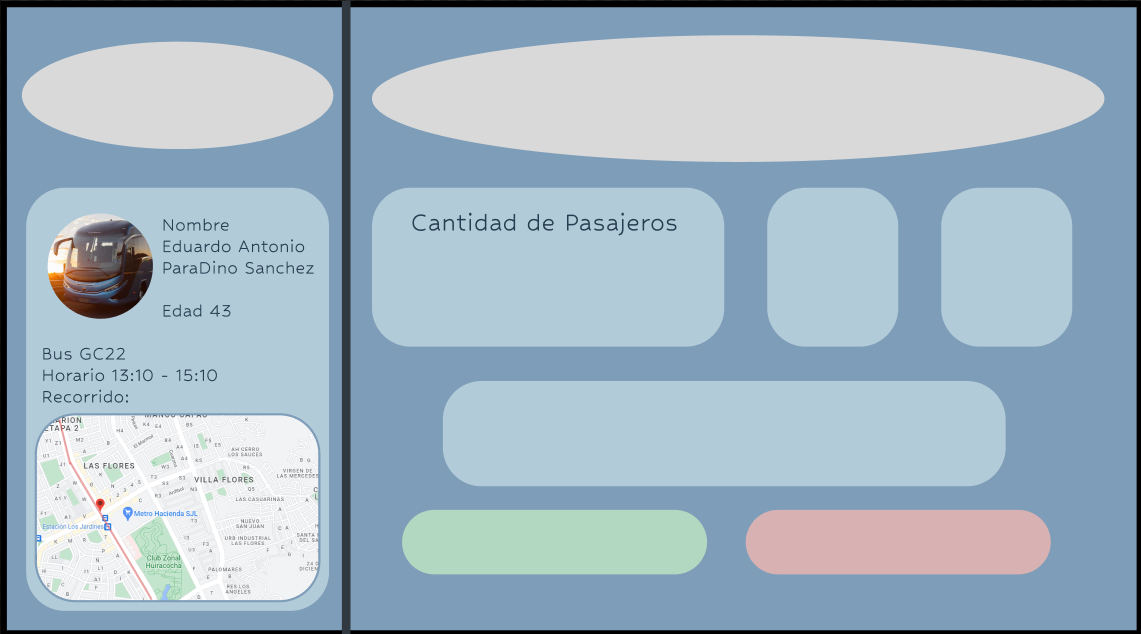
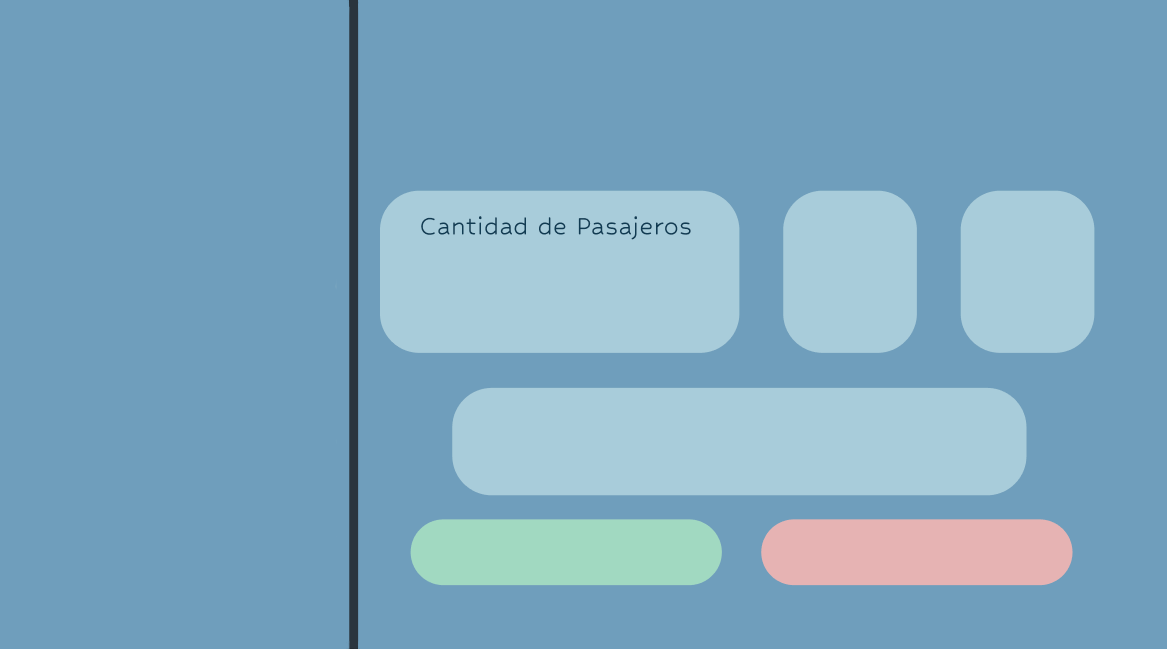
v2

diff --git a/src/paquete/programa.java b/src/paquete/programa.java
@@ -4,6 +4,8 @@
  */
 package paquete;
 
+
+ import AppPackage.AnimationClass;
 /**
  *
  * @author Jonat
@@ -31,6 +33,13 @@ public class programa extends javax.swing.JFrame {
     // <editor-fold defaultstate="collapsed" desc="Generated Code">//GEN-BEGIN:initComponents
     private void initComponents() {
 
+        paneltres = new javax.swing.JLabel();
+        paneldos = new javax.swing.JLabel();
+        botondebotones = new javax.swing.JLabel();
+        botonadmin2 = new javax.swing.JLabel();
+        botonadmin1 = new javax.swing.JLabel();
+        botonadmin = new javax.swing.JLabel();
+        botonpanel1 = new javax.swing.JLabel();
         click2 = new javax.swing.JButton();
         click1 = new javax.swing.JButton();
         resultadodelpago = new javax.swing.JLabel();
@@ -42,6 +51,52 @@ public class programa extends javax.swing.JFrame {
 
         setDefaultCloseOperation(javax.swing.WindowConstants.EXIT_ON_CLOSE);
         getContentPane().setLayout(new org.netbeans.lib.awtextra.AbsoluteLayout());
+
+        paneltres.setIcon(new javax.swing.ImageIcon(getClass().getResource("/paquete/Sin título-6.png"))); // NOI18N
+        paneltres.setText("jLabel2");
+        getContentPane().add(paneltres, new org.netbeans.lib.awtextra.AbsoluteConstraints(-340, 150, 350, 480));
+
+        paneldos.setIcon(new javax.swing.ImageIcon(getClass().getResource("/paquete/Sin título-6.png"))); // NOI18N
+        paneldos.setText("jLabel2");
+        getContentPane().add(paneldos, new org.netbeans.lib.awtextra.AbsoluteConstraints(-340, 150, 350, 480));
+
+        botondebotones.setHorizontalAlignment(javax.swing.SwingConstants.CENTER);
+        botondebotones.setIcon(new javax.swing.ImageIcon(getClass().getResource("/paquete/Sin título-7.png"))); // NOI18N
+        botondebotones.addMouseListener(new java.awt.event.MouseAdapter() {
+            public void mouseClicked(java.awt.event.MouseEvent evt) {
+                botondebotonesMouseClicked(evt);
+            }
+        });
+        getContentPane().add(botondebotones, new org.netbeans.lib.awtextra.AbsoluteConstraints(100, 0, 140, 20));
+
+        botonadmin2.setIcon(new javax.swing.ImageIcon(getClass().getResource("/paquete/imagen_2022-07-09_131154609-removebg-preview.png"))); // NOI18N
+        botonadmin2.addMouseListener(new java.awt.event.MouseAdapter() {
+            public void mouseClicked(java.awt.event.MouseEvent evt) {
+                botonadmin2MouseClicked(evt);
+            }
+        });
+        getContentPane().add(botonadmin2, new org.netbeans.lib.awtextra.AbsoluteConstraints(230, 45, 80, 70));
+
+        botonadmin1.setIcon(new javax.swing.ImageIcon(getClass().getResource("/paquete/imagen_2022-07-09_131154609-removebg-preview.png"))); // NOI18N
+        botonadmin1.addMouseListener(new java.awt.event.MouseAdapter() {
+            public void mouseClicked(java.awt.event.MouseEvent evt) {
+                botonadmin1MouseClicked(evt);
+            }
+        });
+        getContentPane().add(botonadmin1, new org.netbeans.lib.awtextra.AbsoluteConstraints(125, 45, 80, 70));
+
+        botonadmin.setIcon(new javax.swing.ImageIcon(getClass().getResource("/paquete/imagen_2022-07-09_131154609-removebg-preview.png"))); // NOI18N
+        botonadmin.addMouseListener(new java.awt.event.MouseAdapter() {
+            public void mouseClicked(java.awt.event.MouseEvent evt) {
+                botonadminMouseClicked(evt);
+            }
+        });
+        getContentPane().add(botonadmin, new org.netbeans.lib.awtextra.AbsoluteConstraints(20, 45, 80, 70));
+
+        botonpanel1.setIcon(new javax.swing.ImageIcon(getClass().getResource("/paquete/Sin título-5.png"))); // NOI18N
+        botonpanel1.setLabelFor(resultadodelpago1);
+        botonpanel1.setText("jLabel2");
+        getContentPane().add(botonpanel1, new org.netbeans.lib.awtextra.AbsoluteConstraints(10, 150, 340, 480));
 
         click2.setBackground(new java.awt.Color(178, 203, 216));
         click2.setFont(new java.awt.Font("sansserif", 3, 48)); // NOI18N
@@ -57,7 +112,7 @@ public class programa extends javax.swing.JFrame {
                 click2ActionPerformed(evt);
             }
         });
-        getContentPane().add(click2, new org.netbeans.lib.awtextra.AbsoluteConstraints(940, 200, 130, 140));
+        getContentPane().add(click2, new org.netbeans.lib.awtextra.AbsoluteConstraints(960, 200, 140, 140));
 
         click1.setBackground(new java.awt.Color(178, 203, 216));
         click1.setFont(new java.awt.Font("sansserif", 3, 48)); // NOI18N
@@ -73,7 +128,7 @@ public class programa extends javax.swing.JFrame {
                 click1ActionPerformed(evt);
             }
         });
-        getContentPane().add(click1, new org.netbeans.lib.awtextra.AbsoluteConstraints(770, 200, 130, 140));
+        getContentPane().add(click1, new org.netbeans.lib.awtextra.AbsoluteConstraints(780, 200, 140, 140));
 
         resultadodelpago.setFont(new java.awt.Font("sansserif", 0, 36)); // NOI18N
         resultadodelpago.setForeground(new java.awt.Color(255, 255, 255));
@@ -88,7 +143,7 @@ public class programa extends javax.swing.JFrame {
         cantidaddepasajeros1.setFont(new java.awt.Font("sansserif", 0, 36)); // NOI18N
         cantidaddepasajeros1.setForeground(new java.awt.Color(255, 255, 255));
         cantidaddepasajeros1.setText("0");
-        getContentPane().add(cantidaddepasajeros1, new org.netbeans.lib.awtextra.AbsoluteConstraints(520, 250, 140, 70));
+        getContentPane().add(cantidaddepasajeros1, new org.netbeans.lib.awtextra.AbsoluteConstraints(500, 250, 140, 70));
 
         cancelarpaga.setBackground(new java.awt.Color(216, 178, 178));
         cancelarpaga.setFont(new java.awt.Font("sansserif", 1, 18)); // NOI18N
@@ -119,7 +174,7 @@ public class programa extends javax.swing.JFrame {
         getContentPane().add(confirmarPaga, new org.netbeans.lib.awtextra.AbsoluteConstraints(420, 514, 260, 60));
 
         jLabel1.setIcon(new javax.swing.ImageIcon(getClass().getResource("/paquete/unknown.png"))); // NOI18N
-        getContentPane().add(jLabel1, new org.netbeans.lib.awtextra.AbsoluteConstraints(0, 0, 1140, 640));
+        getContentPane().add(jLabel1, new org.netbeans.lib.awtextra.AbsoluteConstraints(0, 0, 1150, 640));
 
         pack();
     }// </editor-fold>//GEN-END:initComponents
@@ -166,6 +221,75 @@ public class programa extends javax.swing.JFrame {
         refreshInterface();
     }//GEN-LAST:event_cancelarpagaActionPerformed
 
+    private void botonadminMouseClicked(java.awt.event.MouseEvent evt) {//GEN-FIRST:event_botonadminMouseClicked
+
+        //panel mostrado
+        AnimationClass  botonadminuno = new AnimationClass();
+        botonadminuno.jLabelXRight(-340, 10, 10, 5, botonpanel1);
+        
+        //paneles ocultos
+        AnimationClass  botonadminun = new AnimationClass();
+        botonadminun.jLabelXLeft(10, -340, 10, 5, paneldos);
+        
+        AnimationClass  botonadminunn = new AnimationClass();
+        botonadminunn.jLabelXLeft(10, -340, 10, 5, paneltres); 
+    }//GEN-LAST:event_botonadminMouseClicked
+
+    private void botondebotonesMouseClicked(java.awt.event.MouseEvent evt) {//GEN-FIRST:event_botondebotonesMouseClicked
+        
+        AnimationClass botondebotoness = new AnimationClass();
+        botondebotoness.jLabelYDown(-80, 45, 10, 5, botonadmin);
+        
+        AnimationClass botondebotoness1 = new AnimationClass();
+        botondebotoness1.jLabelYDown(-80, 45, 10, 5, botonadmin1);
+        
+        AnimationClass botondebotoness2 = new AnimationClass();
+        botondebotoness2.jLabelYDown(-80, 45, 10, 5, botonadmin2);
+        
+        // ^^ bajar  | vv subir
+        
+        AnimationClass botondebotonesss = new AnimationClass();
+        botondebotonesss.jLabelYUp(45, -80, 10, 5, botonadmin);
+        
+        AnimationClass botondebotonesss1 = new AnimationClass();
+        botondebotonesss.jLabelYUp(45, -80, 10, 5, botonadmin1);
+        
+        AnimationClass botondebotonesss2 = new AnimationClass();
+        botondebotonesss.jLabelYUp(45, -80, 10, 5, botonadmin2);
+        
+    }//GEN-LAST:event_botondebotonesMouseClicked
+
+    private void botonadmin1MouseClicked(java.awt.event.MouseEvent evt) {//GEN-FIRST:event_botonadmin1MouseClicked
+        
+        //paneles mostrado
+        AnimationClass  botona = new AnimationClass();
+        botona.jLabelXRight(-340, 10, 10, 5, paneldos);
+        
+        //paneles ocultos
+        AnimationClass  botonadminun = new AnimationClass();
+        botonadminun.jLabelXLeft(10, -340, 10, 5, botonpanel1);
+        
+        AnimationClass  botonadminunn = new AnimationClass();
+        botonadminunn.jLabelXLeft(10, -340, 10, 5, paneltres); 
+         
+        
+    }//GEN-LAST:event_botonadmin1MouseClicked
+
+    private void botonadmin2MouseClicked(java.awt.event.MouseEvent evt) {//GEN-FIRST:event_botonadmin2MouseClicked
+       
+        //paneles mostrado
+        AnimationClass  botonadminunn = new AnimationClass();
+        botonadminunn.jLabelXRight(-340, 10, 10, 5, paneltres); 
+        
+        
+        //paneles ocultos
+        AnimationClass  botonadminun = new AnimationClass();
+        botonadminun.jLabelXLeft(10, -340, 10, 5, botonpanel1);
+        
+        AnimationClass  botonadminunnn = new AnimationClass();
+        botonadminunnn.jLabelXLeft(10, -340, 10, 5, paneldos);
+    }//GEN-LAST:event_botonadmin2MouseClicked
+
     /**
      * @param args the command line arguments
      */
@@ -202,12 +326,19 @@ public class programa extends javax.swing.JFrame {
     }
 
     // Variables declaration - do not modify//GEN-BEGIN:variables
+    private javax.swing.JLabel botonadmin;
+    private javax.swing.JLabel botonadmin1;
+    private javax.swing.JLabel botonadmin2;
+    private javax.swing.JLabel botondebotones;
+    private javax.swing.JLabel botonpanel1;
     private javax.swing.JButton cancelarpaga;
     public static javax.swing.JLabel cantidaddepasajeros1;
     private javax.swing.JButton click1;
     private javax.swing.JButton click2;
     private javax.swing.JButton confirmarPaga;
     private javax.swing.JLabel jLabel1;
+    private javax.swing.JLabel paneldos;
+    private javax.swing.JLabel paneltres;
     public static javax.swing.JLabel resultadodelpago;
     private javax.swing.JLabel resultadodelpago1;
     // End of variables declaration//GEN-END:variables

diff --git a/src/paquete/panel2.java b/src/paquete/panel2.java
@@ -54,7 +54,7 @@ public class panel2 extends javax.swing.JFrame {
         txtrecibi.setFont(new java.awt.Font("SansSerif", 0, 36)); // NOI18N
         txtrecibi.setForeground(new java.awt.Color(255, 255, 255));
         txtrecibi.setText("0");
-        getContentPane().add(txtrecibi, new org.netbeans.lib.awtextra.AbsoluteConstraints(440, 260, 210, 60));
+        getContentPane().add(txtrecibi, new org.netbeans.lib.awtextra.AbsoluteConstraints(470, 260, 210, 60));
 
         resultadodelpago1.setFont(new java.awt.Font("sansserif", 0, 36)); // NOI18N
         resultadodelpago1.setForeground(new java.awt.Color(255, 255, 255));
@@ -64,7 +64,7 @@ public class panel2 extends javax.swing.JFrame {
         txtrecibi2.setFont(new java.awt.Font("sansserif", 0, 36)); // NOI18N
         txtrecibi2.setForeground(new java.awt.Color(255, 255, 255));
         txtrecibi2.setText("0");
-        getContentPane().add(txtrecibi2, new org.netbeans.lib.awtextra.AbsoluteConstraints(690, 400, 190, 70));
+        getContentPane().add(txtrecibi2, new org.netbeans.lib.awtextra.AbsoluteConstraints(680, 400, 190, 70));
 
         confirmarPaga.setBackground(new java.awt.Color(178, 216, 193));
         confirmarPaga.setFont(new java.awt.Font("sansserif", 1, 18)); // NOI18N
@@ -81,7 +81,7 @@ public class panel2 extends javax.swing.JFrame {
         getContentPane().add(confirmarPaga, new org.netbeans.lib.awtextra.AbsoluteConstraints(460, 524, 240, 60));
 
         jLabel2.setIcon(new javax.swing.ImageIcon(getClass().getResource("/paquete/unknown1.png"))); // NOI18N
-        getContentPane().add(jLabel2, new org.netbeans.lib.awtextra.AbsoluteConstraints(0, 0, 1146, 630));
+        getContentPane().add(jLabel2, new org.netbeans.lib.awtextra.AbsoluteConstraints(0, 0, 1130, 630));
 
         pack();
     }// </editor-fold>//GEN-END:initComponents
